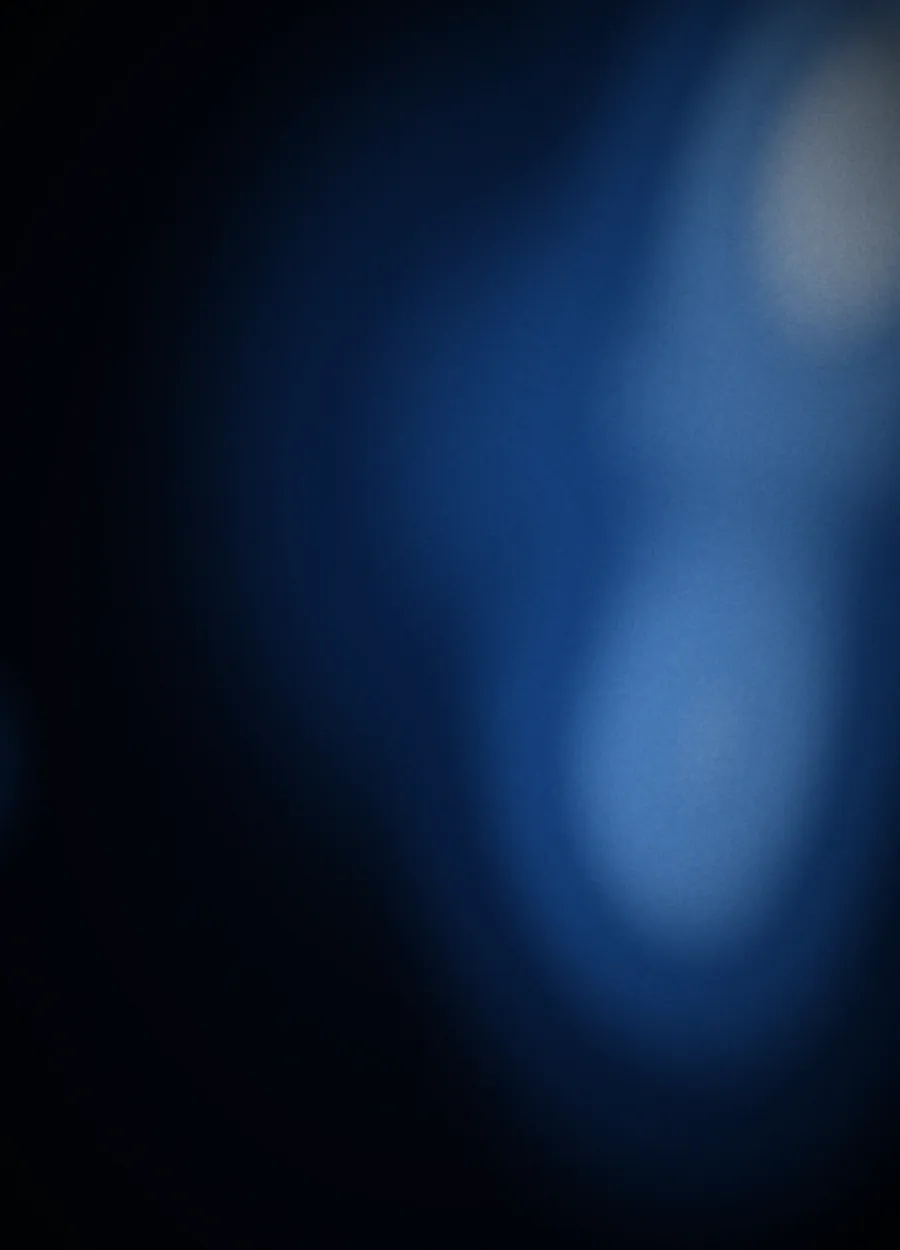
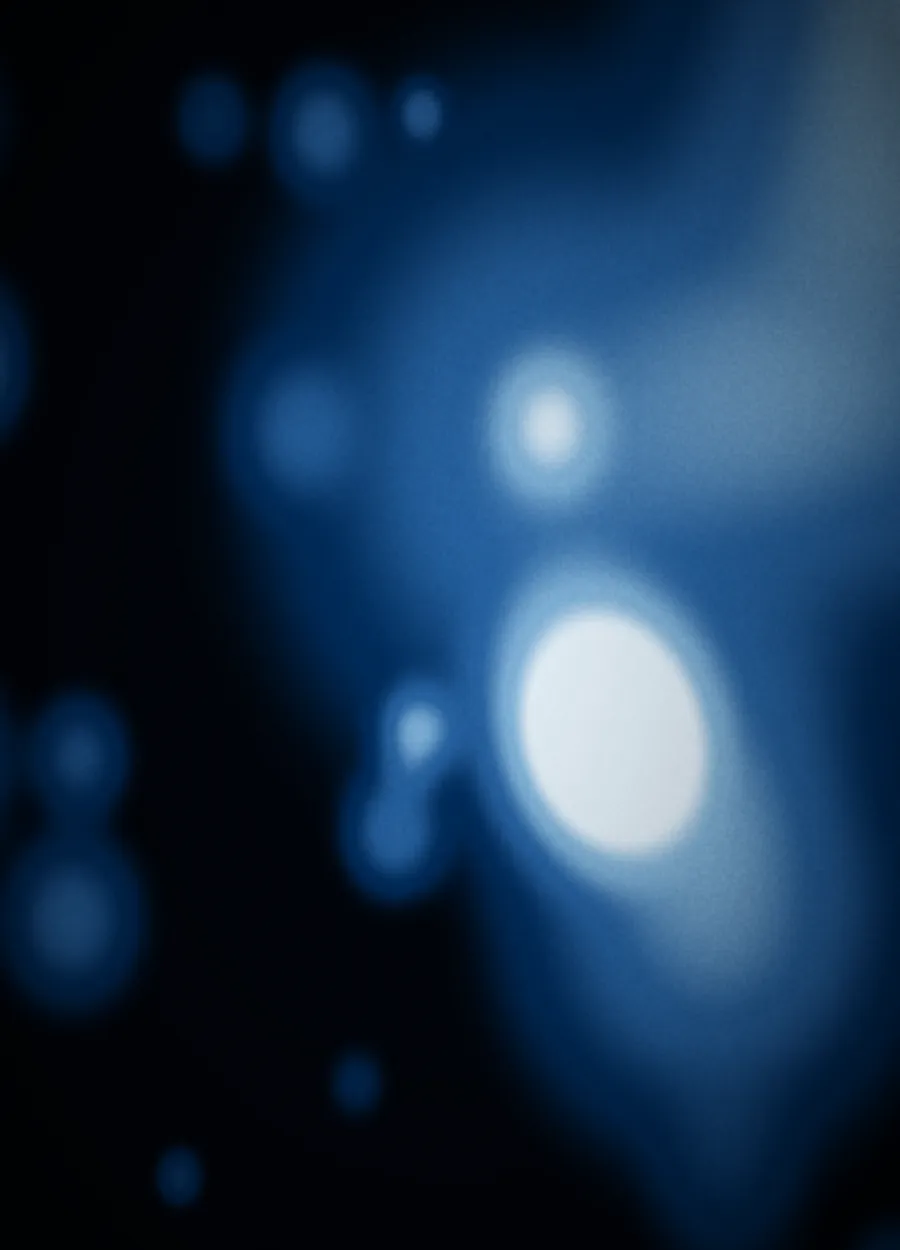
G: fix the hero regression, move onto the Off-Plate brand, make the demos play
The hero was my regression and I should have caught it. When the nav became a
fixed bar I deleted .hero__top from the markup but left .hero on
justify-content:space-between. With one child instead of two, space-between
pinned the content to the TOP, straight under the wordmark. It is now
justify-content:flex-end with 120px of top padding to clear the bar, and the
badge no longer wraps to its own line on the longer English headline.

Brand. The palette was ember orange and a red footer mark, both carried over
from the reference image rather than from BRAND.md. Off-Plate is navy #002B59,
teal #1F7A7A, amber #D08C2E and off-white #F2EFEB, so:
- every photograph and every abstract is re-graded on a navy to teal to amber
  to off-white ramp, replacing the ember ramp
- the accent is amber, the footer wordmark is teal instead of red
- the dark ground carries a navy cast (#04070C) rather than flat black
- the light ground is the brand off-white, and the relief band is brand navy
- the scroll progress hairline runs teal to amber

Motion in the library was real but had already finished. The demos armed and
released on load, so by the time you scrolled to the section every one of them
was sitting at its end state. Each now arms when it leaves the viewport and
plays when it enters, the two hover demos loop on a 2.6s interval while they
are on screen, and Replay still re-triggers. Verified by sampling the same
element across three frames: scaleX 0 to 0.90 and scaleY 0 to 0.94.
[…]

diff --git a/g/site.css b/g/site.css
@@ -10,47 +10,49 @@
    a wash: the page ground and the relief band swap places, so the rhythm of
    contrast down the page survives. The ember never changes in either. */
 :root{
-  --bg:#000;              --fg:#fff;
+  --bg:#04070C;           --fg:#F2EFEB;
   --fg-dim:rgba(255,255,255,.78);
   --fg-mute:rgba(255,255,255,.55);
-  --line:rgba(255,255,255,.14);
-  --line-2:rgba(255,255,255,.28);
-  --surface:#F4F2EF;      --surface-fg:#101010;  --surface-dim:#4A4A4A;
-  --relief:#FFFFFF;       --relief-fg:#000000;   --relief-dim:#5A5A5A;
-  --invert:#111111;       --invert-fg:#FFFFFF;
-  --chrome:rgba(10,7,6,.74);
+  --line:rgba(242,239,235,.15);
+  --line-2:rgba(242,239,235,.3);
+  --surface:#F2EFEB;      --surface-fg:#0B1119;  --surface-dim:#4A4A4A;
+  --relief:#F2EFEB;       --relief-fg:#04070C;   --relief-dim:#5A5A5A;
+  --invert:#0A1018;       --invert-fg:#F2EFEB;
+  --chrome:rgba(4,7,12,.78);
   --chrome-line:rgba(255,255,255,.12);
-  --glass:rgba(255,255,255,.1);
-  --glass-line:rgba(255,255,255,.18);
-  --scrim:linear-gradient(180deg,rgba(0,0,0,.62) 0%,rgba(0,0,0,.15) 34%,rgba(0,0,0,.55) 72%,#000 100%);
+  --glass:rgba(242,239,235,.1);
+  --glass-line:rgba(242,239,235,.2);
+  --scrim:linear-gradient(180deg,rgba(4,7,12,.66) 0%,rgba(4,7,12,.2) 30%,rgba(4,7,12,.72) 68%,rgba(4,7,12,.94) 88%,var(--bg) 100%);
   --shadow-card:0 1px 0 rgba(0,0,0,.08),0 18px 40px rgba(0,0,0,.10);
-  --fg-hover:#E4E0D9;   --fg-off:#8C8C8C;
-  --accent-tx:#FF8A2B;  --stmt-dim:#9A9A9A;
+  --fg-hover:#DCD8D2;   --fg-off:#8A9299;
+  --accent-tx:#E8A94F;  --stmt-dim:#8E9AA6;
 }
 [data-theme=light]{
-  --bg:#F4F1EB;           --fg:#15110E;
+  --bg:#F2EFEB;           --fg:#0B1119;
   --fg-dim:rgba(21,17,14,.72);
   --fg-mute:rgba(21,17,14,.52);
-  --line:rgba(21,17,14,.14);
-  --line-2:rgba(21,17,14,.26);
-  --surface:#FFFFFF;      --surface-fg:#15110E;  --surface-dim:#5B534A;
-  --relief:#15110E;       --relief-fg:#F4F1EB;   --relief-dim:rgba(244,241,235,.62);
-  --invert:#15110E;       --invert-fg:#F4F1EB;
-  --chrome:rgba(244,241,235,.82);
+  --line:rgba(11,17,25,.14);
+  --line-2:rgba(11,17,25,.26);
+  --surface:#FFFFFF;      --surface-fg:#0B1119;  --surface-dim:#4E5A66;
+  --relief:#002B59;       --relief-fg:#F2EFEB;   --relief-dim:rgba(242,239,235,.72);
+  --invert:#002B59;       --invert-fg:#F2EFEB;
+  --chrome:rgba(242,239,235,.84);
   --chrome-line:rgba(21,17,14,.14);
-  --glass:rgba(21,17,14,.06);
-  --glass-line:rgba(21,17,14,.16);
-  --scrim:linear-gradient(180deg,rgba(0,0,0,.42) 0%,rgba(0,0,0,.06) 34%,rgba(0,0,0,.34) 68%,var(--bg) 100%);
+  --glass:rgba(11,17,25,.06);
+  --glass-line:rgba(11,17,25,.17);
+  --scrim:linear-gradient(180deg,rgba(4,7,12,.6) 0%,rgba(4,7,12,.16) 30%,rgba(4,7,12,.7) 66%,rgba(4,7,12,.9) 86%,var(--bg) 100%);
   --shadow-card:0 1px 0 rgba(21,17,14,.06),0 18px 40px rgba(21,17,14,.09);
-  --fg-hover:#2E2721;   --fg-off:#6F675E;
-  --accent-tx:#A8410A;  --stmt-dim:#5A5248;
+  --fg-hover:#1E2A36;   --fg-off:#5E6A75;
+  --accent-tx:#8A5A12;  --stmt-dim:#5A6672;
 }
 html{color-scheme:dark}
 [data-theme=light]{color-scheme:light}
 
 :root{
   --ink:#000; --paper:#fff;
-  --ember:#F0621A; --ember-hot:#FF8A2B; --ember-deep:#8E2208;
+  /* Off-Plate brand, BRAND.md: navy, teal, amber, off-white */
+  --navy:#002B59; --teal:#1F7A7A; --amber:#D08C2E; --offwhite:#F2EFEB;
+  --ember:var(--amber); --ember-hot:#E8A94F; --ember-deep:#7A4A10;
   --grey:#9A9A9A; --grey-2:#6A6A6A;
   --card:#F4F2EF; --card-dark:#111111;
   --r:22px; --r-sm:14px;
@@ -139,8 +141,8 @@ body.is-locked{overflow:hidden}
 
 /* ── hero ─────────────────────────────────────────────────────────────── */
 .hero{position:relative;min-height:min(94vh,940px);display:flex;flex-direction:column;
-      justify-content:space-between;overflow:hidden;padding:26px 0 44px;
-      background:#0A0705;color:#fff}   /* the photograph is dark in both themes,
+      justify-content:flex-end;overflow:hidden;padding:120px 0 clamp(38px,4vw,64px);
+      background:#04070C;color:#F2EFEB}/* the photograph is dark in both themes,
                                           and this is what shows if it never loads */
 .hero__bg{position:absolute;inset:0;z-index:0}
 .hero__bg img{width:100%;height:100%;object-fit:cover;object-position:50% 42%}
@@ -166,9 +168,9 @@ body.is-locked{overflow:hidden}
 
 .hero__btm{display:grid;grid-template-columns:minmax(0,1.25fr) minmax(0,.75fr);
            gap:clamp(24px,4vw,72px);align-items:end}
-.hero h1{font-size:clamp(36px,5.3vw,82px);max-width:16ch;letter-spacing:-.04em;line-height:.96}
+.hero h1{font-size:clamp(36px,5.1vw,78px);max-width:19ch;letter-spacing:-.04em;line-height:.96}
 .badge{
-  display:inline-flex;align-items:baseline;gap:5px;vertical-align:.22em;
+  display:inline-flex;align-items:baseline;gap:5px;vertical-align:.26em;white-space:nowrap;
   background:var(--paper);color:var(--ink);border-radius:999px;
   padding:4px 12px 5px;font-size:.2em;font-weight:700;letter-spacing:0;line-height:1;
 }
@@ -350,7 +352,7 @@ body.is-locked{overflow:hidden}
 .foot__art{
   position:relative;display:flex;align-items:flex-end;border-radius:30px;overflow:hidden;
   isolation:isolate;min-height:clamp(430px,46vw,880px);
-  background:#0A0705;
+  background:#04070C;
 }
 .foot__art>picture{position:absolute;inset:0;z-index:0}
 .foot__art img{width:100%;height:100%;object-fit:cover;object-position:50% 42%}
@@ -360,7 +362,7 @@ body.is-locked{overflow:hidden}
 .foot__mark{
   position:absolute;left:50%;top:44%;transform:translate(-50%,-50%);z-index:1;
   font-size:clamp(120px,33vw,560px);font-weight:800;letter-spacing:-.05em;line-height:.82;
-  text-align:center;color:#E8433A;filter:blur(9px);opacity:.94;
+  text-align:center;color:var(--teal);filter:blur(9px);opacity:.96;
   pointer-events:none;white-space:nowrap;width:max-content;
 }
 .foot__inner{position:relative;z-index:3;width:100%;padding:clamp(22px,2.6vw,44px)}
@@ -614,7 +616,7 @@ body.is-locked{overflow:hidden}
    pointer capability so a phone never inherits a stuck hover. */
 .scrollbar-progress{
   position:fixed;left:0;top:0;height:2px;z-index:99;
-  background:linear-gradient(90deg,var(--ember),var(--ember-hot));
+  background:linear-gradient(90deg,var(--teal),var(--amber));
   transform-origin:left;transform:scaleX(0);will-change:transform;
 }
 

diff --git a/g/system/index.html b/g/system/index.html
@@ -662,34 +662,62 @@ section.sec{padding:clamp(42px,5vw,84px) 0;border-bottom:1px solid var(--lib-lin
 
 <script>
 (function(){
-  /* replay a demo by removing the class that triggered it, forcing a reflow,
-     then putting it back. Same mechanism for every animation on the page. */
-  function restart(el){
-    el.classList.remove('is-live');
-    el.classList.add('is-armed');
-    void el.offsetWidth;
-    el.classList.remove('is-armed');
-    el.classList.add('is-live');
+  /* Each demo plays when it scrolls into view, replays on the button, and
+     re-plays every time it re-enters the viewport, so the section is never
+     a wall of finished animations by the time you reach it. */
+  function arm(el){ el.classList.remove('is-live'); el.classList.add('is-armed'); }
+  function play(el){
+    el.classList.add('is-armed'); void el.offsetWidth;
+    el.classList.remove('is-armed'); el.classList.add('is-live');
   }
   var demos={};
   document.querySelectorAll('[data-demo]').forEach(function(d){ demos[d.dataset.demo]=d; });
 
-  // arm every demo that is a .cards clone
+  var reduce = !matchMedia('(prefers-reduced-motion: no-preference)').matches;
   Object.keys(demos).forEach(function(k){
     var d=demos[k];
-    if(d.classList.contains('cards')){ d.classList.add('is-armed'); requestAnimationFrame(function(){ d.classList.remove('is-armed'); d.classList.add('is-live'); }); }
+    if(!d.classList.contains('cards')) return;
+    if(reduce){ d.classList.add('is-live'); return; }
+    arm(d);
   });
+
+  if(!reduce){
+    var io=new IntersectionObserver(function(es){
+      es.forEach(function(e){
+        if(e.isIntersecting) play(e.target);
+        else if(e.target.classList.contains('cards')) arm(e.target);
+      });
+    },{threshold:.35});
+    Object.keys(demos).forEach(function(k){
+      if(demos[k].classList.contains('cards')) io.observe(demos[k]);
+    });
+  }
+
+  /* the hover demos loop gently so there is always something moving */
+  function pulse(el,ms){
+    var t=el.matches('[data-demo=rot]') ? el : el.querySelector('a');
+    if(!t) return;
+    t.setAttribute('data-state','hover');
+    setTimeout(function(){ t.removeAttribute('data-state'); }, ms||1100);
+  }
+  if(!reduce){
+    var hio=new IntersectionObserver(function(es){
+      es.forEach(function(e){
+        var d=e.target;
+        if(e.isIntersecting && !d._loop){
+          d._loop=setInterval(function(){ pulse(d,1200); }, 2600);
+          pulse(d,1200);
+        } else if(!e.isIntersecting && d._loop){ clearInterval(d._loop); d._loop=null; }
+      });
+    },{threshold:.4});
+    ['hoverimg','rot'].forEach(function(k){ if(demos[k]) hio.observe(demos[k]); });
+  }
 
   document.querySelectorAll('[data-replay]').forEach(function(b){
     b.addEventListener('click', function(){
       var d=demos[b.dataset.replay];
       if(!d) return;
-      if(d.classList.contains('cards')){ restart(d); return; }
-      // hover-style demos: toggle the frozen state for a beat
-      var t=d.matches('[data-demo=rot]') ? d : d.querySelector('a');
-      if(!t) return;
-      t.setAttribute('data-state','hover');
-      setTimeout(function(){ t.removeAttribute('data-state'); }, 1100);
+      if(d.classList.contains('cards')) play(d); else pulse(d,1200);
     });
   });
 })();
